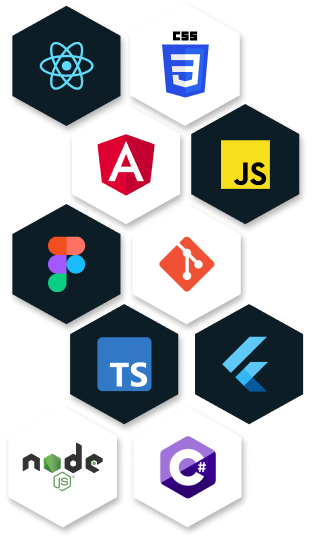
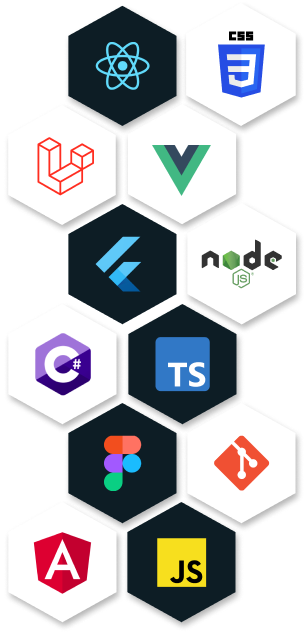
[ADD] new technologies images

diff --git a/src/components/InfoCard/InfoCard.jsx b/src/components/InfoCard/InfoCard.jsx
@@ -22,12 +22,12 @@ const InfoCard = () => {
           <h3>About me</h3>
           <h4>Passionate developer based in Karlovac, Croatia 📍</h4>
           <p>
-            I am a Junior Developer well-versed in <b>React</b>, <b>Angular</b>,
+            I am a Junior Developer well-versed in <b>React</b>, <b>Vue</b>,
             {"  "}
-            <b>Node.js</b>, <b>Flutter</b>, and <b>C#</b>. My knack for creating
-            user-friendly interfaces using React and Angular, coupled with
-            Node.js backend skills, enables me to build seamless web
-            interactions. With Flutter, I craft cross-platform mobile apps
+            <b>Laravel</b>, <b>Node.js</b>, <b>Flutter</b>, and <b>C#</b>. My
+            knack for creating user-friendly interfaces using React and Angular,
+            coupled with Node.js backend skills, enables me to build seamless
+            web interactions. With Flutter, I craft cross-platform mobile apps
             efficiently.
           </p>
           <p>

diff --git a/src/components/Contact/Contact.scss b/src/components/Contact/Contact.scss
@@ -80,6 +80,7 @@
         font-weight: 600;
         padding: 10px 15px;
         border-radius: 5px;
+        cursor: pointer;
 
         &:hover {
           background-color: $colorSecondary;
